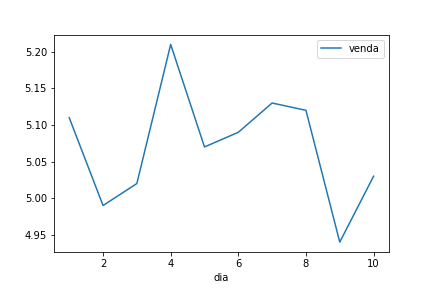
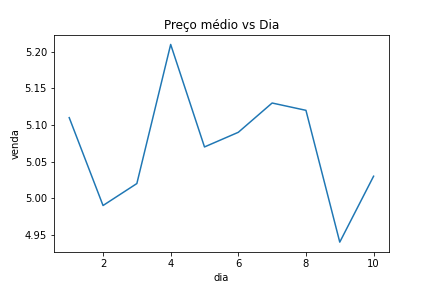
arquivo commands.py alterado e nova visualização do gasolina.png

Changed region(s): [[0.3611, 0.0625, 0.662, 0.125], [0.7222, 0.125, 0.9028, 0.2188], [0.0301, 0.4375, 0.0602, 0.5625]]

diff --git a/commands.py b/commands.py
@@ -1,13 +1,15 @@
 # código de geração do gráfico 
 
 import pandas as pd
+import seaborn as sns
 import matplotlib.pyplot as plt
+
 
 # Lendo o arquivo csv e transformando para DataFrame
 df = pd.read_csv('gasolina.csv')
 
 # Gerando o gráfico de linha
-lines = df.plot.line(x='dia', y='venda')
+grafico = sns.lineplot(data=df, x='dia', y='venda', errorbar=None).set(title="Preço médio vs Dia")
 
 # Salvando o arquivo em png
 plt.savefig('gasolina.png')
